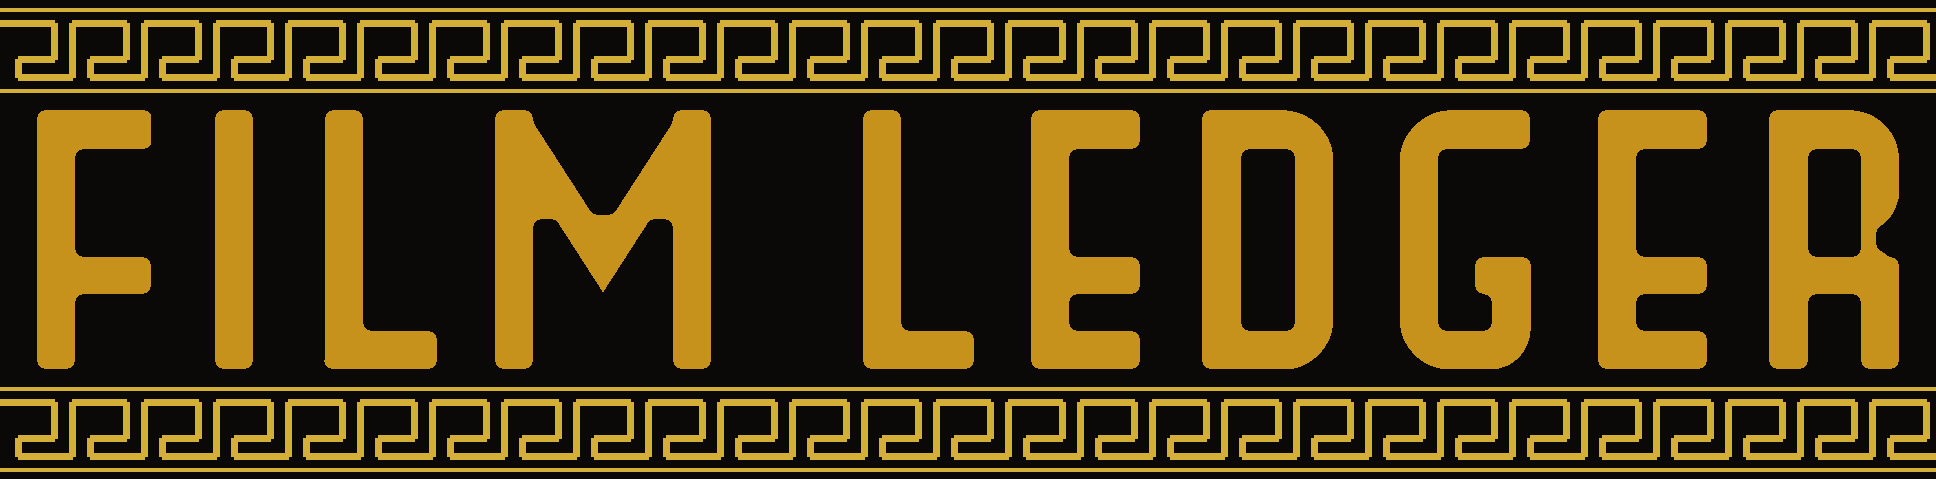
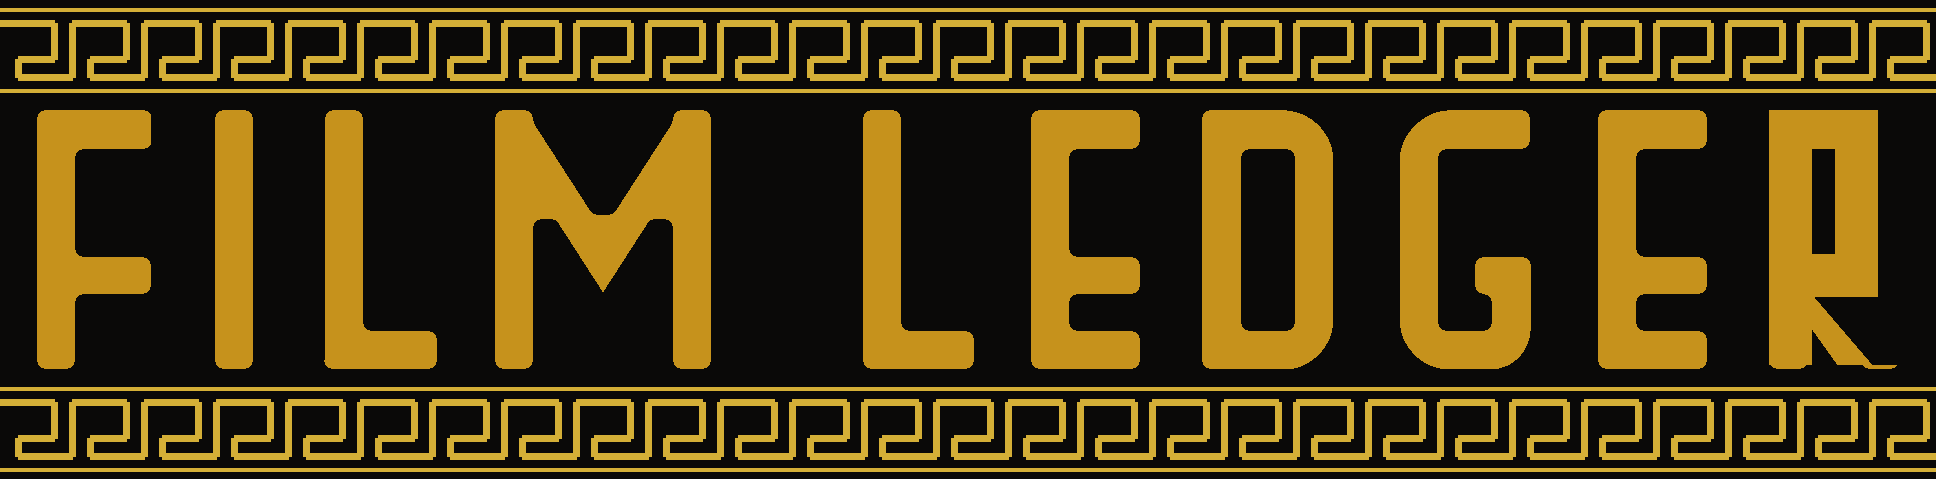
v5.24: live search suggestions and a rebuilt R
Suggestions appear as you type, mixing titles and people.
The header R is redrawn to match the other letters.

Changed region(s): [[0.9298, 0.263, 0.9917, 0.7599]]

diff --git a/app.js b/app.js
@@ -939,6 +939,71 @@ function renderRecommendations(page = 1) {
   });
 }
 
+let suggestTimer = null;
+
+function onSearchInput() {
+  clearTimeout(suggestTimer);
+  const q = document.getElementById('searchQuery').value.trim();
+  if (q.length < 2) {
+    document.getElementById('suggestions').innerHTML = '';
+    return;
+  }
+  suggestTimer = setTimeout(() => fetchSuggestions(q), 220);
+}
+
+function fetchSuggestions(q) {
+  const apiKey = localStorage.getItem('tmdbKey') || '';
+  const box = document.getElementById('suggestions');
+  if (!apiKey) { box.innerHTML = ''; return; }
+  Promise.all([
+    fetch(`https://api.themoviedb.org/3/search/multi?api_key=${apiKey}&query=${encodeURIComponent(q)}&language=en-US&page=1`).then(r => r.json()).catch(() => ({ results: [] })),
+    fetch(`https://api.themoviedb.org/3/search/person?api_key=${apiKey}&query=${encodeURIComponent(q)}&language=en-US&page=1`).then(r => r.json()).catch(() => ({ results: [] }))
+  ]).then(([multi, people]) => {
+    if (document.getElementById('searchQuery').value.trim() !== q) return;
+    const titles = (multi.results || []).filter(m => m.media_type === 'movie' || m.media_type === 'tv').slice(0, 5);
+    const persons = (people.results || []).slice(0, 3);
+    const items = [];
+    titles.forEach(m => items.push({ kind: 'title', data: m }));
+    persons.forEach(p => items.push({ kind: 'person', data: p }));
+    if (!items.length) { box.innerHTML = ''; return; }
+    window._suggestions = items;
+    box.innerHTML = items.map((item, i) => {
+      if (item.kind === 'person') {
+        const p = item.data;
+        const img = p.profile_path
+          ? `<img src="https://image.tmdb.org/t/p/w92${p.profile_path}" alt="">`
+          : '<div class="suggest-ph"></div>';
+        return `<div class="suggest-item" onclick="pickSuggestion(${i})">${img}<div><div class="title">${escapeHtml(p.name)}</div><div class="suggest-kind">${escapeHtml(p.known_for_department || 'Person')}</div></div></div>`;
+      }
+      const m = item.data;
+      const isTV = m.media_type === 'tv';
+      const title = isTV ? m.name : m.title;
+      const year = (isTV ? m.first_air_date : m.release_date || '').slice(0, 4);
+      const img = m.poster_path
+        ? `<img src="https://image.tmdb.org/t/p/w92${m.poster_path}" alt="">`
+        : '<div class="suggest-ph"></div>';
+      return `<div class="suggest-item" onclick="pickSuggestion(${i})">${img}<div><div class="title">${escapeHtml(title || '')}</div><div class="suggest-kind">${isTV ? 'TV' : 'Movie'}${year ? ' · ' + year : ''}</div></div></div>`;
+    }).join('');
+  });
+}
+
+function pickSuggestion(i) {
+  const item = (window._suggestions || [])[i];
+  if (!item) return;
+  document.getElementById('suggestions').innerHTML = '';
+  const apiKey = localStorage.getItem('tmdbKey') || '';
+  const resultsEl = document.getElementById('searchResults');
+  if (item.kind === 'person') {
+    document.getElementById('searchQuery').value = item.data.name;
+    showPersonCredits(item.data, apiKey, resultsEl, item.data.name);
+    return;
+  }
+  const m = item.data;
+  const isTV = m.media_type === 'tv';
+  document.getElementById('searchQuery').value = isTV ? m.name : m.title;
+  searchMovies();
+}
+
 function searchMovies(page = 1) {
   const query = document.getElementById('searchQuery').value.trim();
   const apiKey = localStorage.getItem('tmdbKey') || '';
@@ -1668,7 +1733,7 @@ function renderSettings() {
       <p class="backup-note">${recent.length ? recent.length + ' recent searches saved on this device.' : 'No recent searches.'}</p>
       <button type="button" onclick="clearSearchHistory(); renderSettings();">Clear History</button>
     </div>
-    <p class="backup-note" style="margin-top:14px;">Film Ledger v5.23</p>
+    <p class="backup-note" style="margin-top:14px;">Film Ledger v5.24</p>
   `;
 }
 

diff --git a/index.html b/index.html
@@ -14,16 +14,17 @@
 <body>
   <div class="sticky-top">
     <div class="brand">
-      <img class="brand-mark" src="film-ledger-title.png?v=521" alt="Film Ledger">
-      <span class="brand-ver">v5.23</span>
+      <img class="brand-mark" src="film-ledger-title.png?v=524" alt="Film Ledger">
+      <span class="brand-ver">v5.24</span>
     </div>
 
     <div class="search-bar">
       <div class="search-row">
-        <input id="searchQuery" type="text" placeholder="Search title, actor, director, year..." onkeydown="if(event.key==='Enter') searchMovies()">
+        <input id="searchQuery" type="text" placeholder="Search title, actor, director, year..." oninput="onSearchInput()" onkeydown="if(event.key==='Enter') searchMovies()">
         <button type="button" onclick="searchMovies()">Search</button>
       </div>
     </div>
+    <div id="suggestions" class="suggestions"></div>
     <input type="file" id="importFile" accept=".json" style="display:none;" onchange="importData(event)">
     <div id="searchResults"></div>
 
@@ -59,6 +60,6 @@
     <div id="least" class="tabs"></div>
   </div>
 
-  <script src="app.js?v=523"></script>
+  <script src="app.js?v=524"></script>
 </body>
 </html>

diff --git a/styles.css b/styles.css
@@ -85,9 +85,41 @@ body {
   line-height: 1;
 }
 
-.search-bar {
-  padding: 10px 16px 12px;
-  background: transparent;
+.suggestions {
+  padding: 0 16px;
+}
+
+.suggestions:empty { display: none; }
+
+.suggest-item {
+  display: flex;
+  align-items: center;
+  gap: 10px;
+  padding: 8px 10px;
+  background: var(--card);
+  border: 1px solid var(--border);
+  border-radius: 10px;
+  margin-bottom: 6px;
+  cursor: pointer;
+}
+
+.suggest-item:hover { border-color: var(--accent); }
+
+.suggest-item img,
+.suggest-item .suggest-ph {
+  width: 32px;
+  height: 48px;
+  border-radius: 4px;
+  object-fit: cover;
+  background: #222;
+  flex-shrink: 0;
+}
+
+.suggest-kind {
+  color: var(--accent);
+  font-size: 0.68rem;
+  text-transform: uppercase;
+  letter-spacing: 0.04em;
 }
 
 .search-row {

diff --git a/service-worker.js b/service-worker.js
@@ -1,11 +1,11 @@
-const CACHE_NAME = 'film-ledger-v5.23';
+const CACHE_NAME = 'film-ledger-v5.24';
 const urlsToCache = [
   './',
   './index.html',
   './styles.css',
-  './app.js?v=523',
+  './app.js?v=524',
   './manifest.json',
-  './film-ledger-title.png?v=521'
+  './film-ledger-title.png?v=524'
 ];
 
 self.addEventListener('install', event => {
